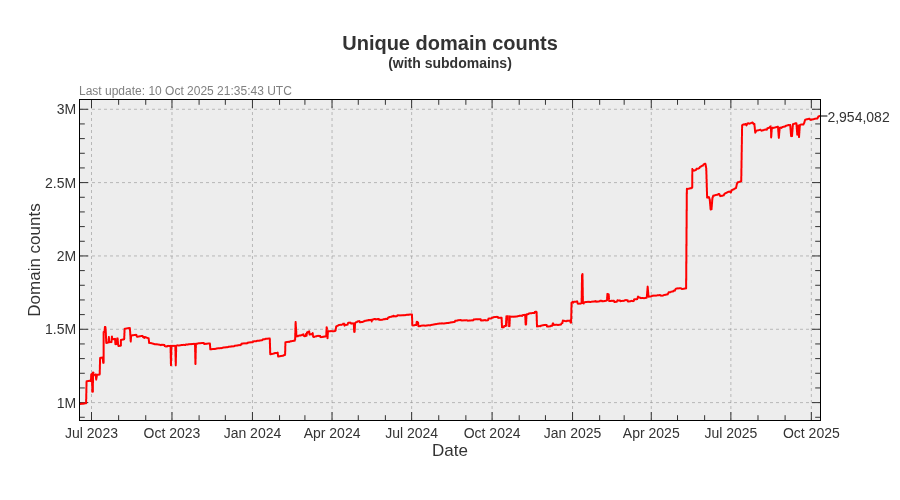
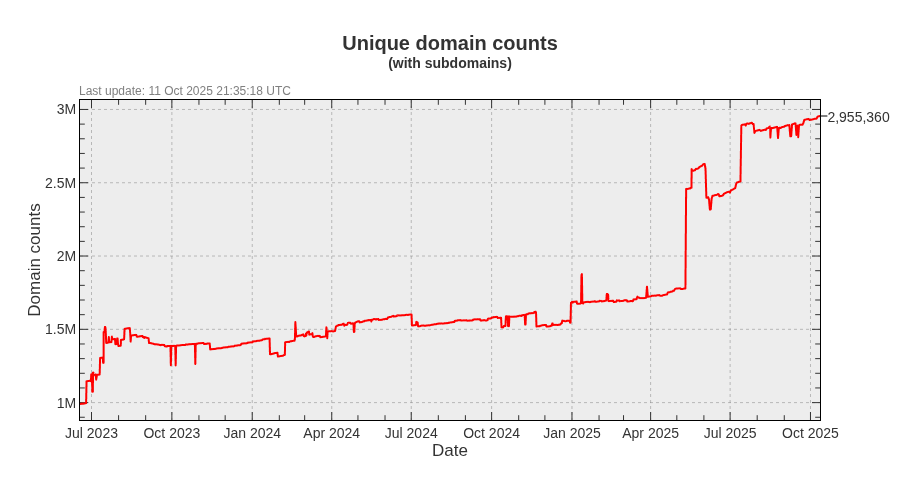
Update pages

diff --git a/README.md b/README.md
@@ -3,22 +3,22 @@ A blocklist file for blocking ads, trackers and malware domains.
 
[1 lines of base64/hex data omitted]
 
-- Unique domains: 2,954,082
-- Without subdomains: 2,269,909
-- Last update: 10 Oct 2025 21:35:43 UTC
-- Version: 2025.10.10.01
+- Unique domains: 2,955,360
+- Without subdomains: 2,271,030
+- Last update: 11 Oct 2025 21:35:18 UTC
+- Version: 2025.10.11.01
 
 
 ### Downloads:
 
 | Format             | Domain count      | Download Link |
 |:------------------ | -----------------:|:-------------:|
-| *Adblock Plus*     | 2,269,909 | [Download](https://dl.cenk.app/bad-hosts/bad-hosts-abp) |
-| *Wildcard domains* | 2,269,909 | [Download](https://dl.cenk.app/bad-hosts/bad-hosts-wildcard) |
-| *dnsmasq*          | 2,269,909 | [Download](https://dl.cenk.app/bad-hosts/bad-hosts-dnsmasq) |
-| *hosts*            | 2,954,082 | [Download](https://dl.cenk.app/bad-hosts/hosts) |
-| *hosts (ipv6)*     | 2,954,082 | [Download](https://dl.cenk.app/bad-hosts/hosts-ipv6) |
-| *Plain domains*    | 2,954,082 | [Download](https://dl.cenk.app/bad-hosts/bad-hosts-domains) |
+| *Adblock Plus*     | 2,271,030 | [Download](https://dl.cenk.app/bad-hosts/bad-hosts-abp) |
+| *Wildcard domains* | 2,271,030 | [Download](https://dl.cenk.app/bad-hosts/bad-hosts-wildcard) |
+| *dnsmasq*          | 2,271,030 | [Download](https://dl.cenk.app/bad-hosts/bad-hosts-dnsmasq) |
+| *hosts*            | 2,955,360 | [Download](https://dl.cenk.app/bad-hosts/hosts) |
+| *hosts (ipv6)*     | 2,955,360 | [Download](https://dl.cenk.app/bad-hosts/hosts-ipv6) |
+| *Plain domains*    | 2,955,360 | [Download](https://dl.cenk.app/bad-hosts/bad-hosts-domains) |
 
 ### Domain count history
 #### With subdomains
